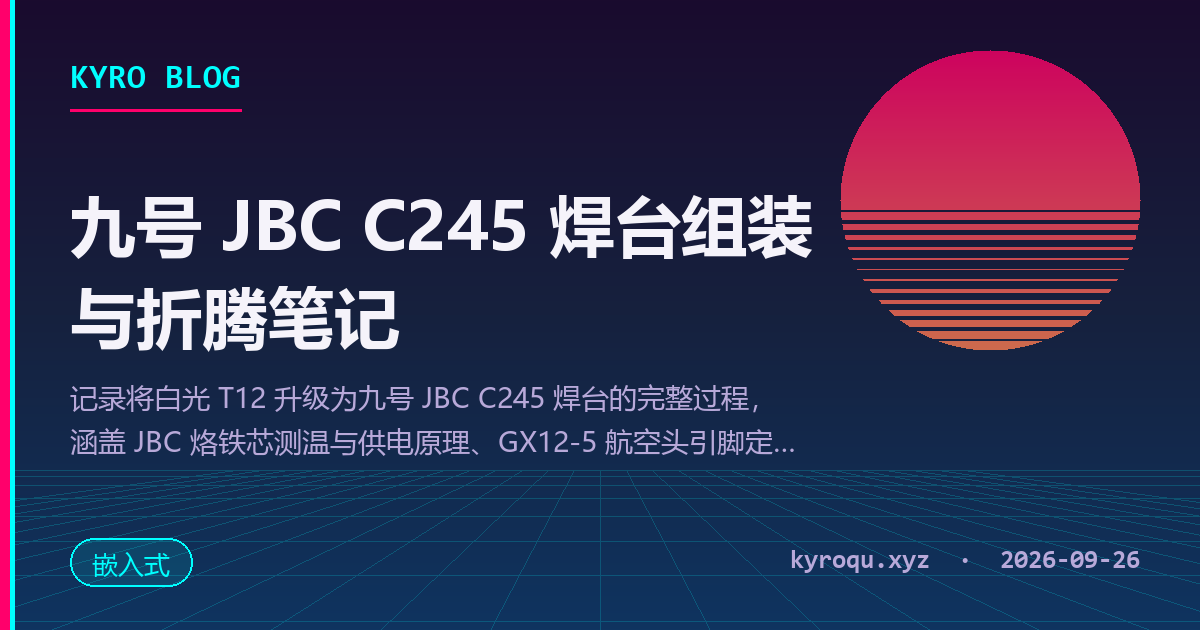
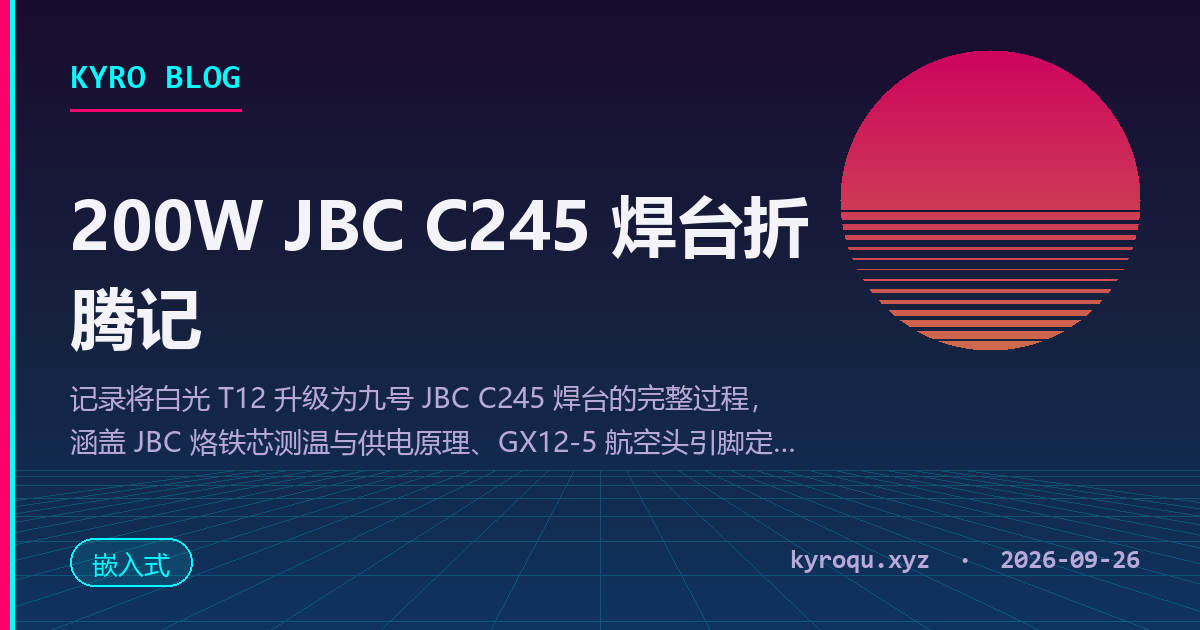
Update post title: 200W JBC C245 焊台折腾记

Changed region(s): [[0.0617, 0.3016, 0.6783, 0.4222], [0.0617, 0.4524, 0.3392, 0.573]]

diff --git a/content/posts/jbc-c245-soldering-station.md b/content/posts/jbc-c245-soldering-station.md
@@ -1,5 +1,5 @@
 ---
-title: "九号 JBC C245 焊台组装与折腾笔记"
+title: "200W JBC C245 焊台折腾记"
 subtitle: "从 T12 升级到 200W JBC 245：原理分析、配件选型、手柄改线与参数校准全记录"
 date: 2026-09-26T19:56:22+08:00
 draft: false
